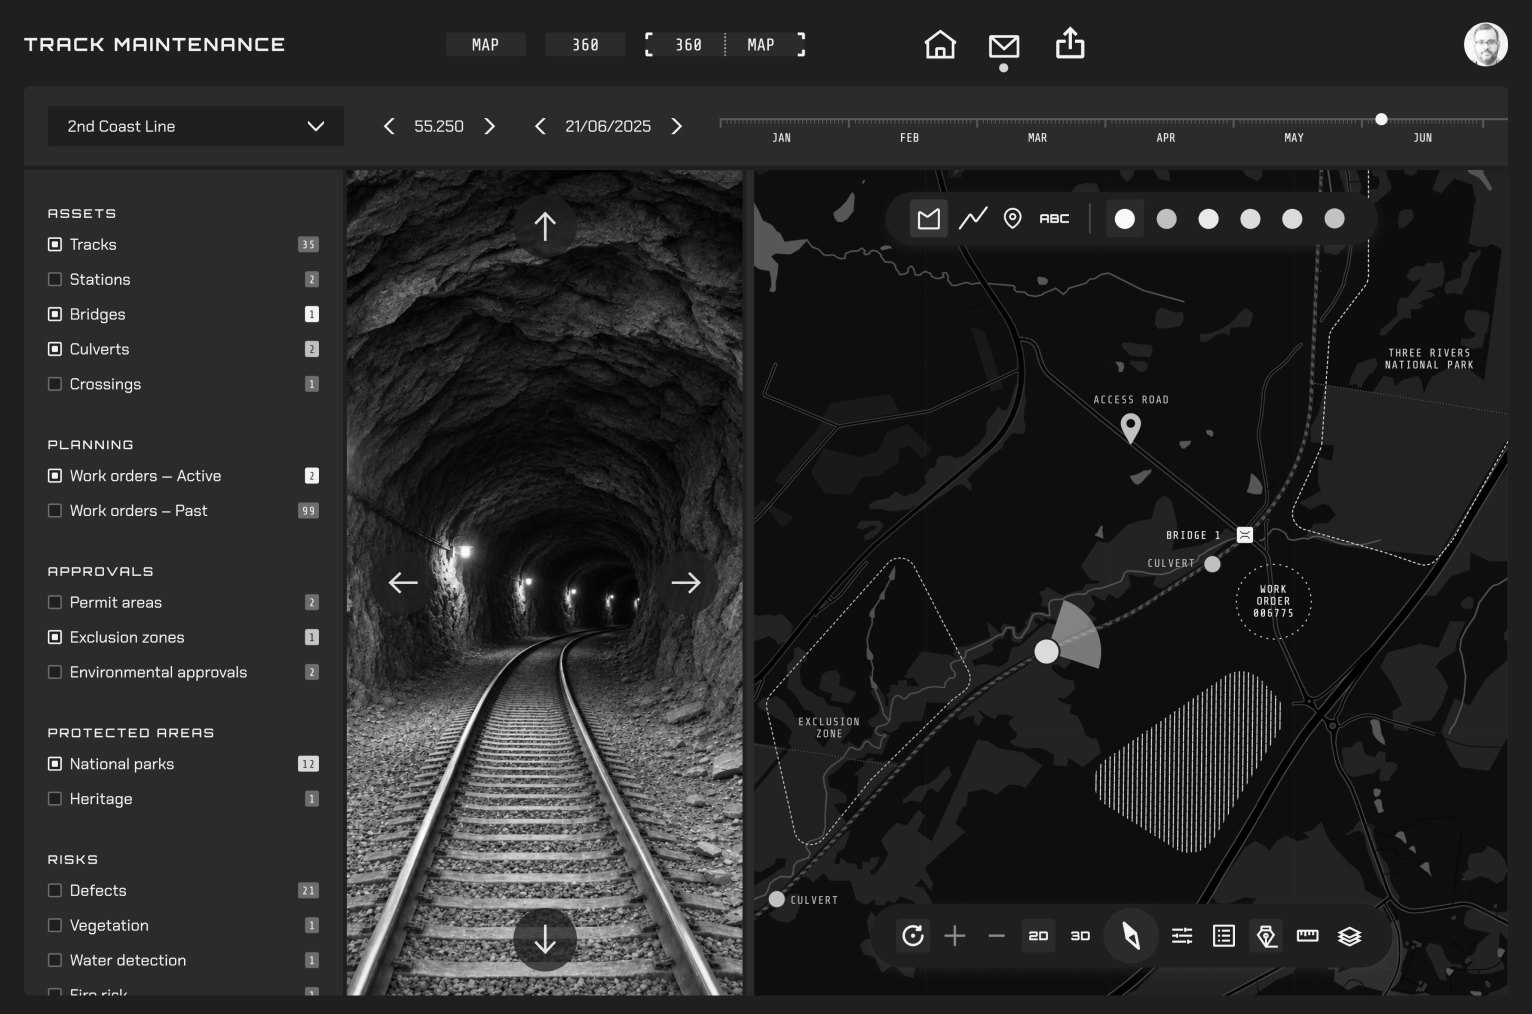
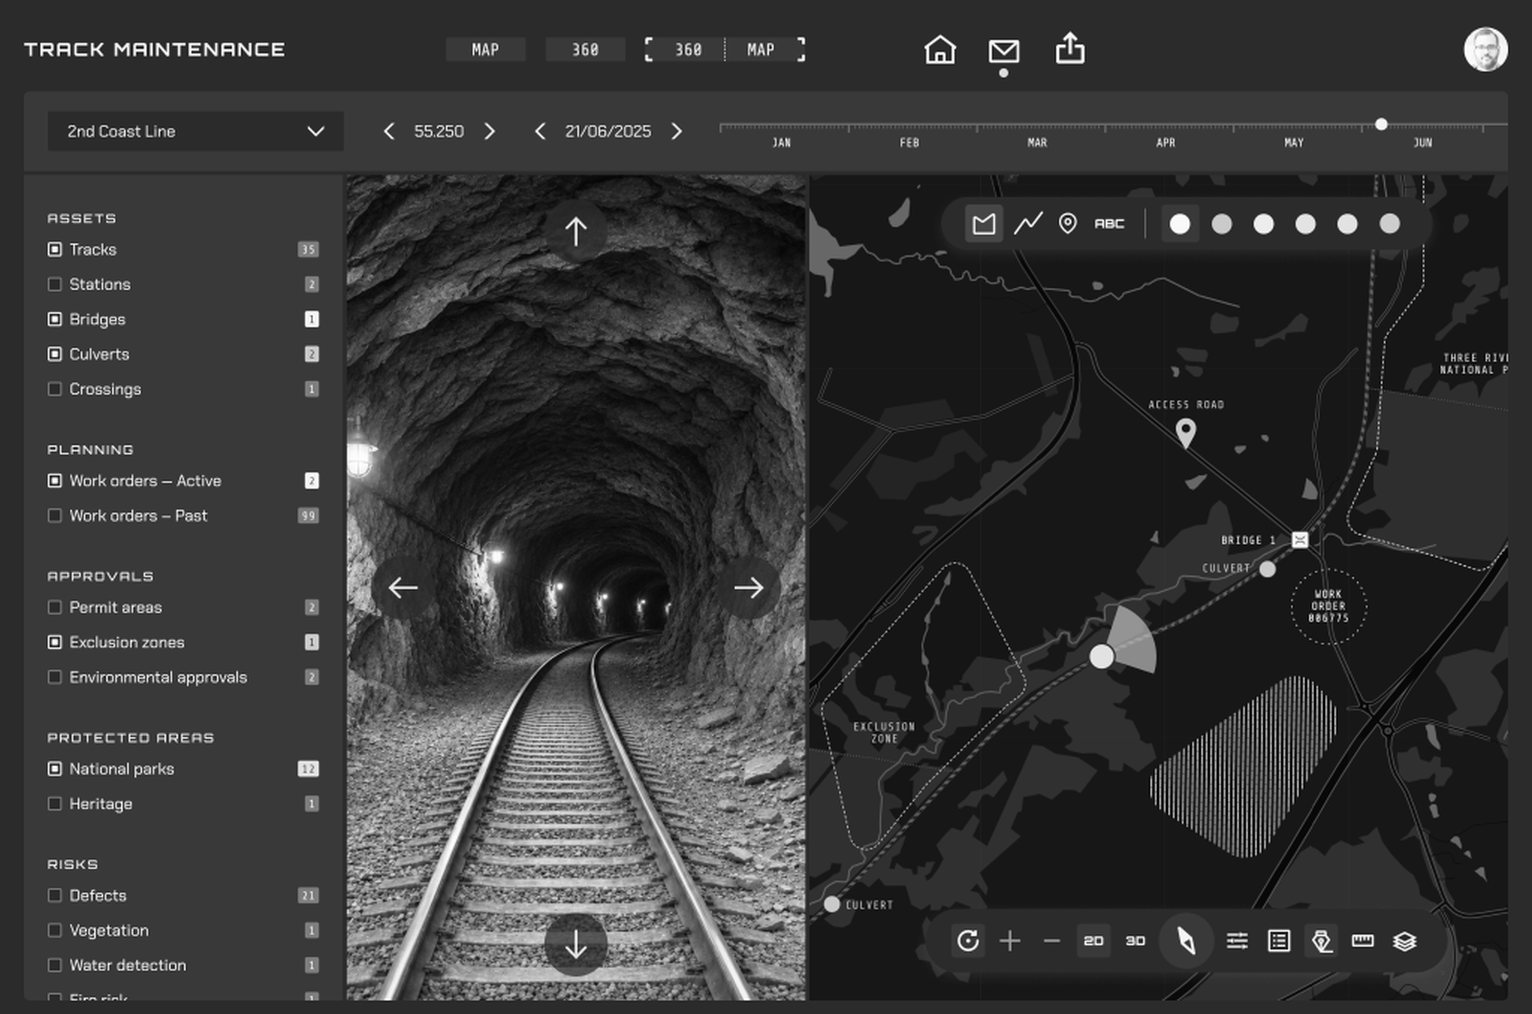
Homepage: project 1 dark and light screenshots from the same Figma frame, so the hover swap lines up

diff --git a/caveman/index.html b/caveman/index.html
@@ -410,8 +410,8 @@
     z-index: 2;            /* over the wireframe surface */
   }
   /* Track maintenance app, vertically centred in the block and running off its right edge.
-     The image is Figma's own render (221:411: saturation −1, exposure +0.27): CSS brightness()
-     can't lift the dark tones the way Figma's exposure does */
+     Project 1's dark and light screenshots both come from Figma 230:428 (766×512 images in a
+     766×507 frame), cropped the same way so the hover swap lines up exactly */
   .project-shot--track {
     left: max(50%, calc(var(--text-left) + 260px + 64px));
     top: 50%;

diff --git a/enterprise/index.html b/enterprise/index.html
@@ -409,8 +409,8 @@
     z-index: 2;            /* over the wireframe surface */
   }
   /* Track maintenance app, vertically centred in the block and running off its right edge.
-     The image is Figma's own render (221:411: saturation −1, exposure +0.27): CSS brightness()
-     can't lift the dark tones the way Figma's exposure does */
+     Project 1's dark and light screenshots both come from Figma 230:428 (766×512 images in a
+     766×507 frame), cropped the same way so the hover swap lines up exactly */
   .project-shot--track {
     left: max(50%, calc(var(--text-left) + 260px + 64px));
     top: 50%;

diff --git a/index.html b/index.html
@@ -408,8 +408,8 @@
     z-index: 2;            /* over the wireframe surface */
   }
   /* Track maintenance app, vertically centred in the block and running off its right edge.
-     The image is Figma's own render (221:411: saturation −1, exposure +0.27): CSS brightness()
-     can't lift the dark tones the way Figma's exposure does */
+     Project 1's dark and light screenshots both come from Figma 230:428 (766×512 images in a
+     766×507 frame), cropped the same way so the hover swap lines up exactly */
   .project-shot--track {
     left: max(50%, calc(var(--text-left) + 260px + 64px));
     top: 50%;
